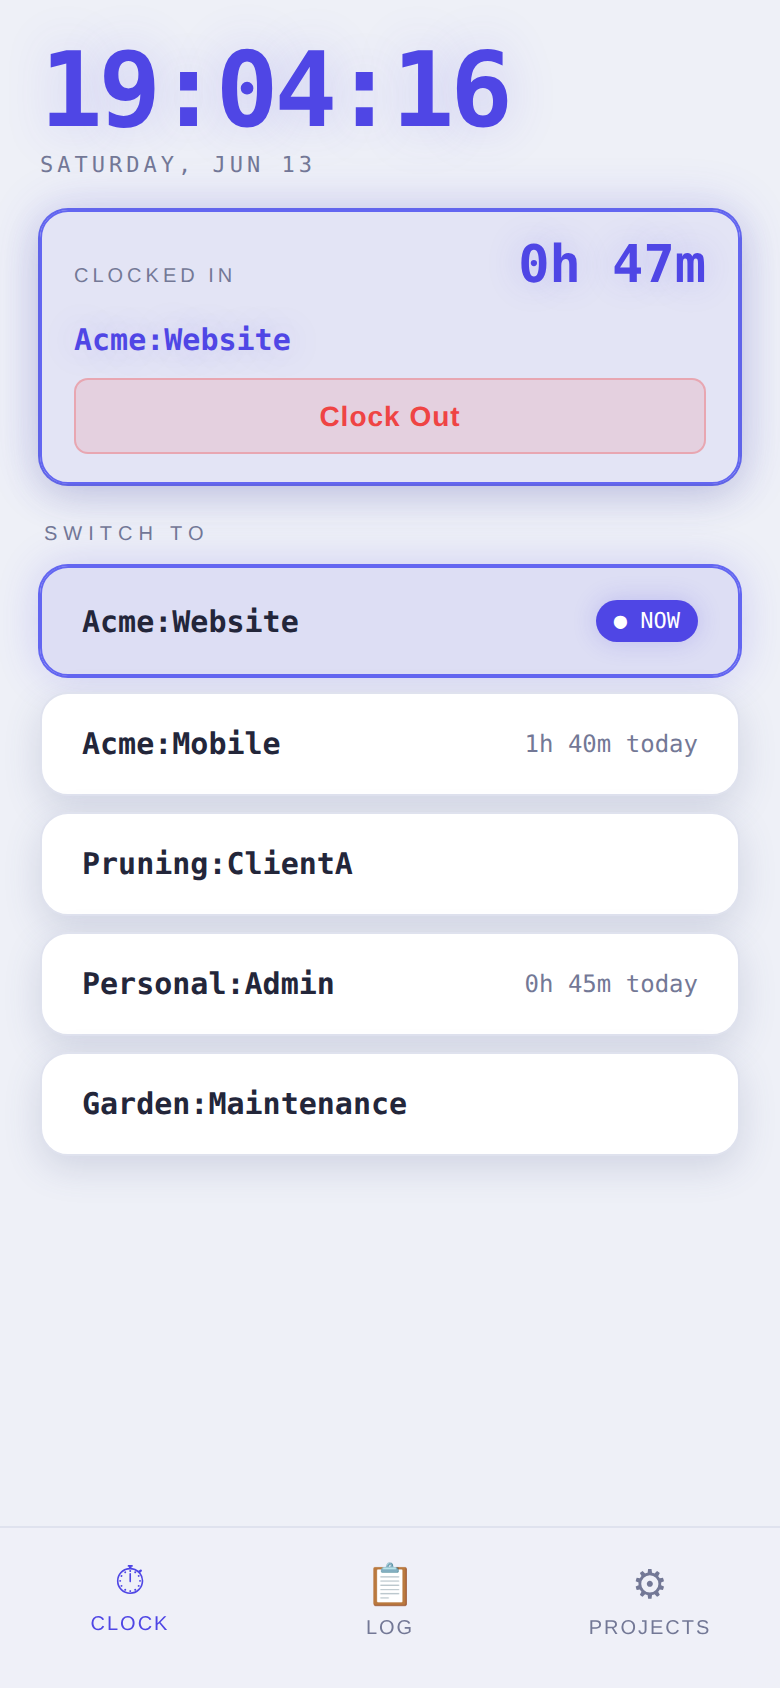
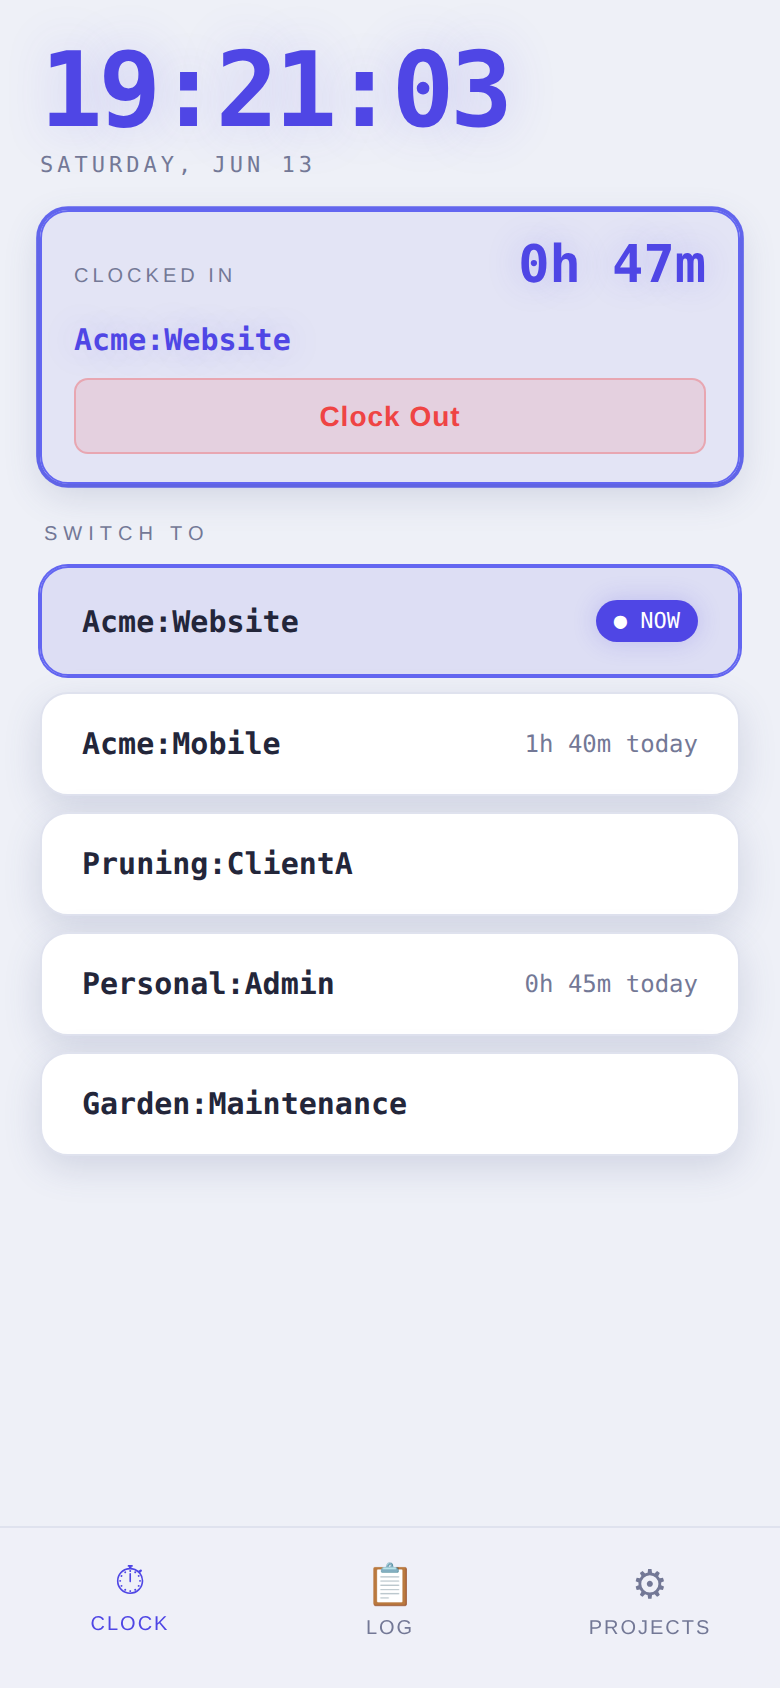
Constrain indigo motion to session card; quiet the current task button
Make the session card the single 'live' focal point: drop the static
glow halo on .project-btn.current, keeping its brighter fill + 1px ring
+ NOW badge so it stays distinct without competing with the (animated)
session card. Records the one-live-indicator-per-screen principle.

Changed region(s): [[0.2769, 0.0308, 0.4308, 0.0924], [0.4923, 0.0308, 0.6462, 0.0924], [0.9231, 0.1232, 0.9538, 0.154]]

diff --git a/src/index.css b/src/index.css
@@ -257,7 +257,7 @@ html, body { background: var(--bg); }
 [data-theme^="indigo-"] .project-btn.current {
   background: var(--current-bg);
   border-color: var(--accent-edge);
-  box-shadow: 0 0 0 1px var(--accent-edge), 0 0 22px var(--accent-glow);
+  box-shadow: 0 0 0 1px var(--accent-edge);
 }
 [data-theme^="indigo-"] .project-badge {
   background: var(--lime); color: var(--badge-ink);

diff --git a/design-preview/NOTES.md b/design-preview/NOTES.md
@@ -1,5 +1,11 @@
 # Theme design — working notes & backlog
 
+## Principles
+- **One live indicator per screen.** Only the **session card**
+  (`.status-bar.active`) carries motion + glow. The current task button
+  (`.project-btn.current`) is marked statically (brighter fill + 1px ring +
+  NOW badge) — distinct but quiet, so it doesn't compete with the card.
+
 ## Deferred ideas
 - **Animated green gradient on active buttons** (other themes): animate a
   flowing green gradient across the active/clocked-in buttons. Revisit when we
